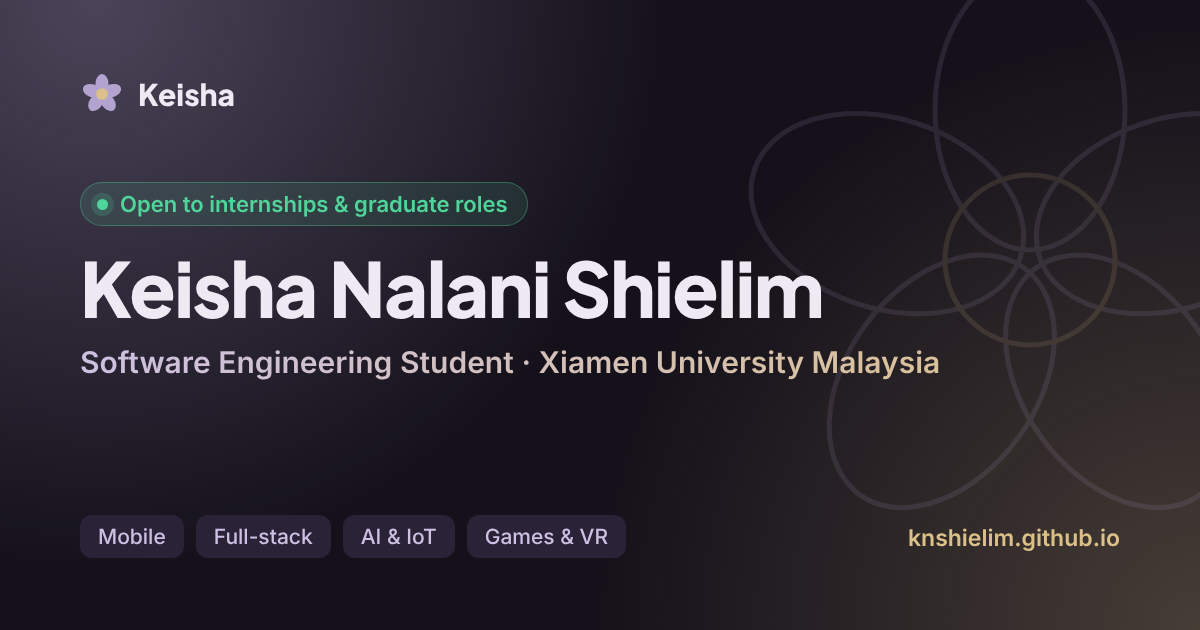
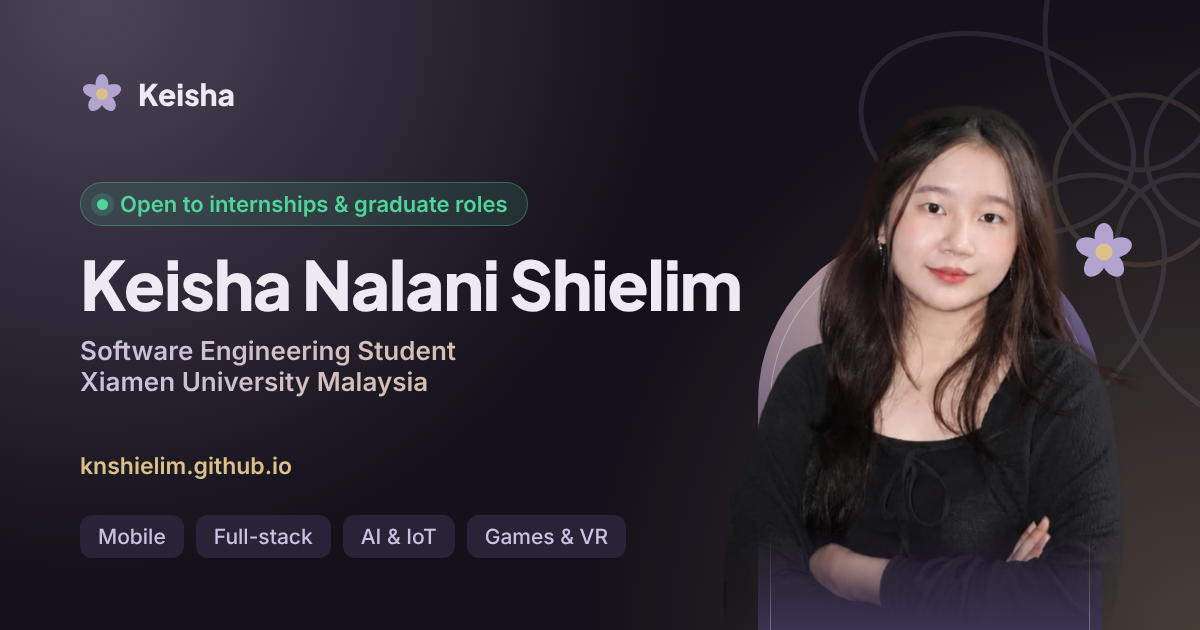
Modified Design

diff --git a/index.html b/index.html
@@ -160,6 +160,22 @@
           -webkit-mask-image: linear-gradient(to bottom, #000 72%, transparent 100%); mask-image: linear-gradient(to bottom, #000 72%, transparent 100%); }
   .arch .initials { font-family: "Instrument Serif", serif; font-style: italic; font-size: 8rem; color: rgba(255,255,255,.9); margin-bottom: 60px; }
   .arch img { position: absolute; inset: 0; width: 100%; height: 100%; object-fit: cover; object-position: center top; }
+
+  /* Cutout mode (transparent PNG): the arch becomes a backdrop and the photo stands in front, head rising above it */
+  .hero-photo.cutout { height: auto; max-height: none; width: 126%; justify-self: center; align-self: end; aspect-ratio: .8; }
+  .hero-photo.cutout .arch { position: absolute; left: 8%; right: 8%; bottom: 0; width: auto; height: 72%; min-height: 0; }
+  .hero-photo.cutout .arch::before { content: ""; position: absolute; inset: 14px 14px 0; border-radius: 999px 999px 0 0;
+                                     border: 1px solid rgba(255,255,255,.28); border-bottom: 0; }
+  .hero-photo.cutout .arch .initials { display: none; }
+  .hero-photo .halo { display: none; }
+  .hero-photo.cutout .halo { display: block; position: absolute; left: 50%; bottom: 30%; width: 80%; aspect-ratio: 1; transform: translateX(-50%);
+                             border-radius: 50%; background: radial-gradient(circle, color-mix(in srgb, var(--gold) 35%, transparent), transparent 65%); filter: blur(10px); }
+  .cutout-img { position: absolute; left: 50%; bottom: 0; transform: translateX(-50%); height: 100%; width: auto; max-width: 118%; z-index: 1;
+                object-fit: contain; object-position: bottom; pointer-events: none; user-select: none;
+                -webkit-mask-image: linear-gradient(to bottom, #000 80%, transparent 100%); mask-image: linear-gradient(to bottom, #000 80%, transparent 100%);
+                animation: rise-in 1s cubic-bezier(.2,.7,.2,1) both; }
+  @keyframes rise-in { from { opacity: 0; transform: translate(-50%, 24px); } }
+  .hero-photo.cutout > .flower { top: 22%; right: 1%; width: 78px; height: 78px; z-index: 0; }
   .hero-photo > .flower { position: absolute; width: 96px; height: 96px; top: 2%; right: -10px; z-index: 2; animation: spin 18s linear infinite;
                           filter: drop-shadow(0 8px 18px rgba(0,0,0,.25)); }
   @keyframes spin { to { transform: rotate(360deg); } }
@@ -467,6 +483,8 @@
     .hero-grid { grid-template-columns: 1fr 1fr; min-height: 0; max-height: none; gap: 32px; padding-top: 32px; }
     .hero-left { grid-column: 1 / -1; padding-bottom: 0; }
     .hero-photo { height: 460px; }
+    .hero-photo.cutout { width: 100%; }
+    .hero-photo.cutout > .flower { right: -2%; top: 18%; width: 64px; height: 64px; }
     .arch { height: 100%; min-height: 0; }
     .hero-right { padding-bottom: 32px; }
     .intro-grid { grid-template-columns: 1fr; gap: 36px; }
@@ -507,7 +525,8 @@
     section { padding: 76px 0; }
     .sec-head { margin-bottom: 34px; gap: 4px 14px; }
     .hero-grid { grid-template-columns: 1fr; }
-    .hero-photo { height: 380px; width: 82%; justify-self: center; }
+    .hero-photo { height: 400px; width: 86%; justify-self: center; }
+    .hero-photo.cutout { width: 92%; }
     .hero-photo > .flower { width: 70px; height: 70px; }
     .hero-right { gap: 24px; }
     .intro { padding-top: 64px; }
@@ -1183,11 +1202,27 @@ const SITE = {
     tick();
   })();
 
-  // Portrait
+  // Portrait: a transparent cutout (PNG/WEBP) stands in front of the arch; a normal photo fills the arch
   $("arch").innerHTML = `<span class="initials">${esc(SITE.initials)}</span>`;
   findFile(SITE.photo).then(url => {
     if (!url) return;
-    const img = new Image(); img.alt = "Photo of " + SITE.name; img.src = url; $("arch").appendChild(img);
+    const img = new Image(); img.alt = "Photo of " + SITE.name; img.src = url;
+    img.onload = () => {
+      let transparent = /\.(png|webp)$/i.test(url);
+      try {   // check a corner pixel for real transparency (not possible when opened as a local file)
+        const c = document.createElement("canvas"); c.width = c.height = 4;
+        const x = c.getContext("2d"); x.drawImage(img, 0, 0, 4, 4);
+        transparent = x.getImageData(0, 0, 1, 1).data[3] < 250;
+      } catch (e) {}
+      const box = document.querySelector(".hero-photo");
+      if (transparent) {
+        box.classList.add("cutout");
+        box.insertAdjacentHTML("afterbegin", '<span class="halo" aria-hidden="true"></span>');
+        img.className = "cutout-img";
+        box.style.aspectRatio = `${img.naturalWidth} / ${img.naturalHeight}`;
+        box.appendChild(img);
+      } else $("arch").appendChild(img);
+    };
   });
 
   // Intro strip + stats (count up when visible)
